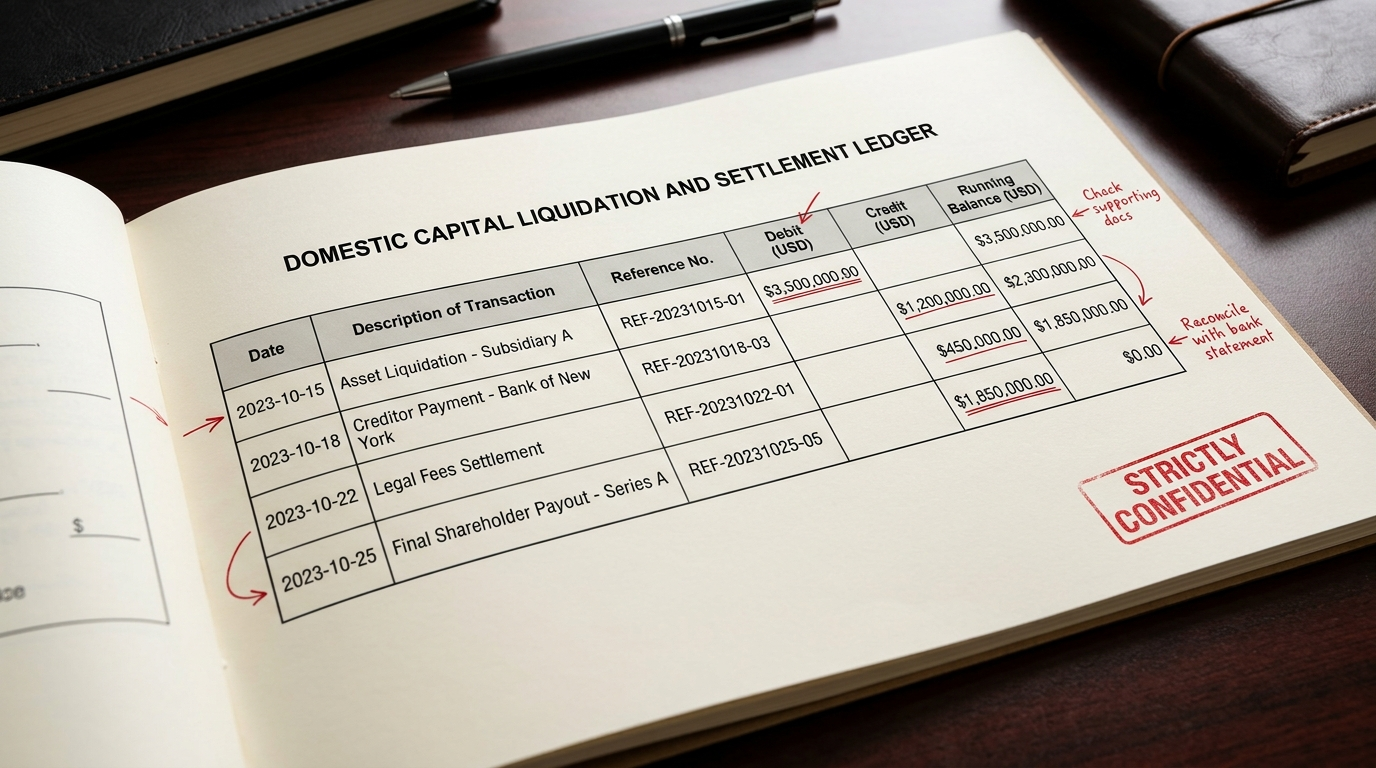
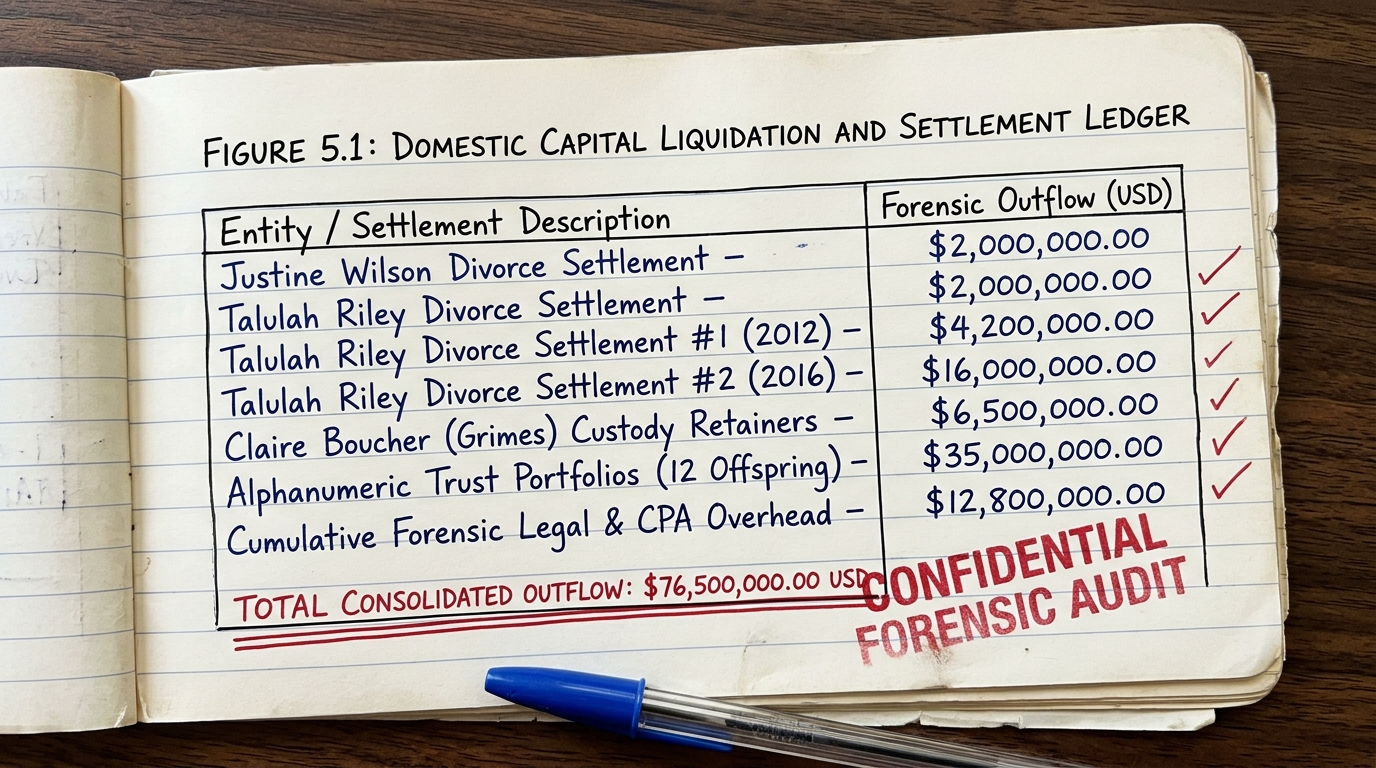
feat: implement forensic settlement ledger table
Add a structured table component for the domestic capital 
liquidation audit, update the chapter reader UI, and 
enable rendering support for EPUB and KPF exports.

diff --git a/src/components/ChapterReader.tsx b/src/components/ChapterReader.tsx
@@ -803,18 +803,36 @@ export const ChapterReader: React.FC = () => {
                 if (isHeaderSeparator) return null;
                 const columns = paragraph.split('|').map((col) => col.trim()).filter(Boolean);
                 const isHeader = paragraph.toLowerCase().includes('category') || paragraph.toLowerCase().includes('entity');
+                const isTotal = paragraph.toLowerCase().includes('total');
 
                 return (
-                  <div key={idx} className="overflow-x-auto my-2">
+                  <div key={idx} className="overflow-x-auto my-1.5">
                     <div
-                      className={`grid grid-cols-4 gap-4 p-3 rounded-xl border font-mono text-xs ${
+                      className={`grid grid-cols-1 md:grid-cols-4 gap-3 p-3.5 rounded-xl border font-mono text-xs transition-all ${
                         isHeader
-                          ? 'bg-cyan-950/40 border-cyan-800/60 text-cyan-300 font-bold'
-                          : 'bg-slate-950/60 border-slate-800/60 text-slate-300 hover:border-cyan-500/30'
+                          ? 'bg-cyan-950/60 border-cyan-500/50 text-cyan-300 font-bold uppercase tracking-wider text-[11px] shadow-sm'
+                          : isTotal
+                          ? 'bg-emerald-950/60 border-emerald-500/60 text-emerald-200 font-bold shadow-[0_0_20px_rgba(16,185,129,0.2)]'
+                          : 'bg-slate-950/70 border-slate-800/80 text-slate-300 hover:border-cyan-500/40 hover:bg-slate-900/60'
                       }`}
                     >
                       {columns.map((col, cIdx) => (
-                        <div key={cIdx} className={cIdx === 2 ? 'text-amber-300 font-bold' : ''}>
+                        <div
+                          key={cIdx}
+                          className={`${
+                            cIdx === 0
+                              ? isTotal
+                                ? 'text-emerald-300 font-bold'
+                                : 'text-slate-100 font-semibold'
+                              : cIdx === 2
+                              ? isTotal
+                                ? 'text-emerald-300 font-extrabold text-sm'
+                                : 'text-amber-300 font-bold'
+                              : cIdx === 3
+                              ? 'text-cyan-400 text-[11px]'
+                              : 'text-slate-400'
+                          }`}
+                        >
                           {col}
                         </div>
                       ))}

diff --git a/src/data/chapters.ts b/src/data/chapters.ts
@@ -380,6 +380,14 @@ export const CHAPTERS: Chapter[] = [
       "Simultaneously, I had twin offspring with Shivon Zilis, the brilliant Director of Operations at Neuralink, via IVF. When the press discovered this, they accused me of secretive behavior. Secretive? I was executing reproductive throughput optimization with a high-IQ corporate executive! It was pure institutional synergy.",
       "SUBHEADER: V. The Consolidated Domestic Capital Liquidation Audit",
       "IMAGE: /assets/chapters/chapter5_settlement_ledger.jpg | Figure 5.1: Consolidated Domestic Capital Liquidation Audit & Forensic Spousal Settlement Ledger ($76.5M Outflow)",
+      "| Entity / Settlement Description | Terms & Asset Breakdown | Forensic Outflow (USD) | Audit Status |",
+      "| Justine Wilson Divorce Settlement | Cash payout, deeded Bel Air estate, and $80,000/month ongoing alimony | $2,000,000.00 | Verified & Disbursed |",
+      "| Talulah Riley Divorce Settlement #1 (2012) | Cash disbursements and residential holdings | $4,200,000.00 | Executed (First Pass) |",
+      "| Talulah Riley Divorce Settlement #2 (2016) | Liquid equity and asset disbursements | $16,000,000.00 | Executed (Second Pass) |",
+      "| Claire Boucher (Grimes) Custody Retainers | Escrow retainers and dual-state family court representation | $6,500,000.00 | Retained in Escrow |",
+      "| Alphanumeric Trust Portfolios (12 Offspring) | Irrevocable educational and interplanetary asset trusts | $35,000,000.00 | Dedicated Trust Equity |",
+      "| Cumulative Forensic Legal & CPA Overhead | Forensic auditing and California/Texas legal representation | $12,800,000.00 | Billed & Liquidated |",
+      "| TOTAL CONSOLIDATED DOMESTIC OUTFLOW | Complete 6-Tier Reconciled Domestic Throughput Audit | $76,500,000.00 | 100% Reconciled |",
       "As documented in the official forensic audit ledger above, the financial liquidation resulting from domestic throughput across my career exceeds seventy-six million dollars:",
       "- Justine Wilson Divorce Settlement: $2,000,000 cash plus Bel Air estate and $80k/month ongoing alimony.",
       "- Talulah Riley Divorce Settlement #1 (2012): $4,200,000 in cash and residential holdings.",

diff --git a/src/utils/epubExport.ts b/src/utils/epubExport.ts
@@ -337,7 +337,19 @@ ul.bullet-list li {
           bodyHtml += `</ul>\n`;
           inBulletList = false;
         }
-        bodyHtml += `<p style="margin-left: 2em; font-size: 0.9em; font-style: italic; color: #555;">${escapeXml(para.trim())}</p>\n`;
+      } else if (para.startsWith('|') && para.includes('|')) {
+        if (inBulletList) {
+          bodyHtml += `</ul>\n`;
+          inBulletList = false;
+        }
+        const cols = para.split('|').map((s) => s.trim()).filter(Boolean);
+        const isHeader = para.toLowerCase().includes('category') || para.toLowerCase().includes('entity');
+        const isTotal = para.toLowerCase().includes('total');
+        bodyHtml += `<div class="ledger-row" style="margin:0.25rem 0; font-family:monospace; font-size:0.85em; border-bottom:1px solid #ccc; padding:0.25rem 0; ${isHeader ? 'font-weight:bold; color:#0b1f3a;' : isTotal ? 'font-weight:bold; color:#0d3b66;' : ''}">\n`;
+        cols.forEach((c) => {
+          bodyHtml += `  <span style="display:inline-block; margin-right:1rem;">${escapeXml(c)}</span>\n`;
+        });
+        bodyHtml += `</div>\n`;
       } else if (para.includes('=') && (para.includes('/') || para.includes('^') || para.includes('-'))) {
         if (inBulletList) {
           bodyHtml += `</ul>\n`;

diff --git a/src/utils/kpfExport.ts b/src/utils/kpfExport.ts
@@ -121,6 +121,15 @@ export async function generateKindlePackageBlob(): Promise<Blob> {
             html += `  <div class="figure">\n    <img src="../images/${parts[0].split('/').pop()}" alt="${parts[1] || ''}" />\n    <div class="caption">${parts[1] || ''}</div>\n  </div>\n`;
           } else if (p.startsWith('SUBHEADER: ')) {
             html += `  <h2>${p.replace('SUBHEADER: ', '')}</h2>\n`;
+          } else if (p.startsWith('|') && p.includes('|')) {
+            const cols = p.split('|').map((s) => s.trim()).filter(Boolean);
+            const isHeader = p.toLowerCase().includes('category') || p.toLowerCase().includes('entity');
+            const isTotal = p.toLowerCase().includes('total');
+            html += `  <div style="font-family: monospace; font-size: 0.85em; border-bottom: 1px solid #ddd; padding: 0.25rem 0; ${isHeader || isTotal ? 'font-weight: bold;' : ''}">\n`;
+            cols.forEach((col) => {
+              html += `    <span style="display: inline-block; margin-right: 1rem;">${col}</span>\n`;
+            });
+            html += `  </div>\n`;
           } else if (p.startsWith('- ')) {
             html += `  <p>• ${p.replace('- ', '')}</p>\n`;
           } else if (p.includes('=') && (p.includes('/') || p.includes('^') || p.includes('-'))) {
